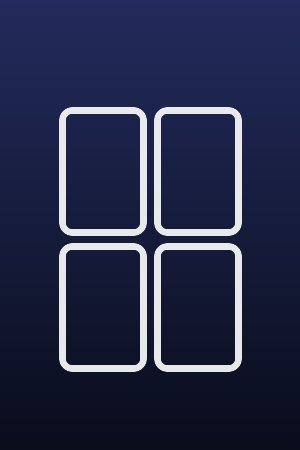
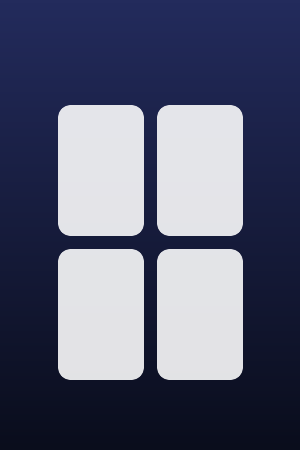
v0.3.3: author, circular badge, left sliver, search focus, row lineup
- NRO author is now Kirbosh (was still scamNscoot).
- Library badge is a white circle-dot instead of the heart; the See-all
  card art uses bolder filled tiles.
- Rows run edge-to-edge with 50px inner padding, so a scrolled row shows
  a sliver of the previous poster on the left, mirroring the right edge.
- Watch/Episodes focus outline now matches the pill shape.
- Search: results arriving in two batches recycled the focused cell onto
  a random poster; focus now returns to the first result.
- Row lineup reordered per request; added Surprise Me (random genre
  catalog each launch) and Anime Series (Kitsu addon).

Claude-Session: https://claude.ai/code/session_012V9FMNH1bYgQPuYGJ54k7A

Changed region(s): [[0.18, 0.2178, 0.81, 0.8711]]

diff --git a/app/src/activity/stremio_home.cpp b/app/src/activity/stremio_home.cpp
@@ -54,7 +54,7 @@ void styleRowHeader(brls::Label* h, const std::string& text) {
     h->setFontSize(27);
     h->setMarginTop(28);
     h->setMarginBottom(12);
-    h->setMarginLeft(6);
+    h->setMarginLeft(56);  // rows are edge-to-edge; keep titles at the old inset
     h->setTextColor(nvgRGB(240, 242, 248));  // soft white for clear hierarchy
 }
 
@@ -258,7 +258,11 @@ StremioHome::StremioHome() {
 
     this->boxHome = new brls::Box();
     this->boxHome->setAxis(brls::Axis::COLUMN);
-    this->boxHome->setPadding(16, 50, 32, 50);  // more breathing room at the edges
+    // No side padding: each row runs edge-to-edge and carries its own 50px
+    // inner padding instead, so a scrolled row shows a sliver of the previous
+    // poster on the left (like the next-poster sliver on the right) instead
+    // of clipping to nothing at the old padding boundary.
+    this->boxHome->setPadding(16, 0, 32, 0);
     scroll->setContentView(this->boxHome);
 
     this->addView(scroll);
@@ -288,27 +292,37 @@ StremioHome::StremioHome() {
     this->addRow("New Series", stremio::CINEMETA + "/catalog/series/year/genre=" + year + ".json");
     this->addRow("Top Rated Movies", stremio::CINEMETA + "/catalog/movie/imdbRating.json");
     this->addRow("Top Rated Series", stremio::CINEMETA + "/catalog/series/imdbRating.json");
+    // Surprise Me: a random genre catalog each launch.
+    {
+        static const char* genres[] = {"Action", "Adventure", "Animation", "Comedy", "Crime", "Drama", "Family",
+            "Fantasy", "History", "Horror", "Mystery", "Romance", "Sci-Fi", "Thriller", "War", "Western"};
+        std::srand((unsigned)now);
+        bool series = std::rand() & 1;
+        std::string genre = genres[std::rand() % 16];
+        this->addRow("Surprise Me", stremio::CINEMETA + std::string("/catalog/") + (series ? "series" : "movie") +
+                                        "/top/genre=" + genre + ".json");
+    }
     this->addRow("Animation Movies", stremio::CINEMETA + "/catalog/movie/top/genre=Animation.json");
     this->addRow("Animation Series", stremio::CINEMETA + "/catalog/series/top/genre=Animation.json");
     this->addRow("Action Movies", stremio::CINEMETA + "/catalog/movie/top/genre=Action.json");
+    this->addRow("Action Series", stremio::CINEMETA + "/catalog/series/top/genre=Action.json");
+    this->addRow("Sci-Fi Movies", stremio::CINEMETA + "/catalog/movie/top/genre=Sci-Fi.json");
+    this->addRow("Sci-Fi Series", stremio::CINEMETA + "/catalog/series/top/genre=Sci-Fi.json");
+    this->addRow("Thriller Movies", stremio::CINEMETA + "/catalog/movie/top/genre=Thriller.json");
+    this->addRow("Horror Movies", stremio::CINEMETA + "/catalog/movie/top/genre=Horror.json");
+    // Anime via the public Kitsu addon (Cinemeta has no separate anime genre).
+    this->addRow("Anime Series", "https://anime-kitsu.strem.fun/catalog/series/kitsu-anime-trending.json");
     this->addRow("Comedy Movies", stremio::CINEMETA + "/catalog/movie/top/genre=Comedy.json");
     this->addRow("Comedy Series", stremio::CINEMETA + "/catalog/series/top/genre=Comedy.json");
-    this->addRow("Sci-Fi Movies", stremio::CINEMETA + "/catalog/movie/top/genre=Sci-Fi.json");
+    this->addRow("War Movies", stremio::CINEMETA + "/catalog/movie/top/genre=War.json");
     this->addRow("Drama Series", stremio::CINEMETA + "/catalog/series/top/genre=Drama.json");
-    this->addRow("Horror Movies", stremio::CINEMETA + "/catalog/movie/top/genre=Horror.json");
-    this->addRow("Thriller Movies", stremio::CINEMETA + "/catalog/movie/top/genre=Thriller.json");
     this->addRow("Fantasy Movies", stremio::CINEMETA + "/catalog/movie/top/genre=Fantasy.json");
-    this->addRow("Action Series", stremio::CINEMETA + "/catalog/series/top/genre=Action.json");
-    this->addRow("Adventure Movies", stremio::CINEMETA + "/catalog/movie/top/genre=Adventure.json");
+    this->addRow("Fantasy Series", stremio::CINEMETA + "/catalog/series/top/genre=Fantasy.json");
     this->addRow("Crime Movies", stremio::CINEMETA + "/catalog/movie/top/genre=Crime.json");
     this->addRow("Crime Series", stremio::CINEMETA + "/catalog/series/top/genre=Crime.json");
     this->addRow("Mystery Movies", stremio::CINEMETA + "/catalog/movie/top/genre=Mystery.json");
     this->addRow("Mystery Series", stremio::CINEMETA + "/catalog/series/top/genre=Mystery.json");
     this->addRow("Romance Movies", stremio::CINEMETA + "/catalog/movie/top/genre=Romance.json");
-    this->addRow("Sci-Fi Series", stremio::CINEMETA + "/catalog/series/top/genre=Sci-Fi.json");
-    this->addRow("Fantasy Series", stremio::CINEMETA + "/catalog/series/top/genre=Fantasy.json");
-    this->addRow("Family Movies", stremio::CINEMETA + "/catalog/movie/top/genre=Family.json");
-    this->addRow("War Movies", stremio::CINEMETA + "/catalog/movie/top/genre=War.json");
     this->addRow("Western Movies", stremio::CINEMETA + "/catalog/movie/top/genre=Western.json");
     this->addRow("Documentary Movies", stremio::CINEMETA + "/catalog/movie/top/genre=Documentary.json");
     this->addRow("Documentary Series", stremio::CINEMETA + "/catalog/series/top/genre=Documentary.json");
@@ -369,6 +383,7 @@ void StremioHome::addRow(const std::string& title, const std::string& url) {
     auto* rec = new HRecyclerFrame();
     rec->setHeight(300);
     rec->estimatedRowWidth = 175;
+    rec->setPadding(0, 50, 0, 50);
     rec->registerCell("Cell", FavCardCell::create);
     this->boxHome->addView(rec);
     if (!this->firstRowRec) this->firstRowRec = rec;  // safe parking spot for focus
@@ -392,6 +407,7 @@ void StremioHome::addFavouritesRow() {
     this->favRec = new HRecyclerFrame();
     this->favRec->setHeight(300);
     this->favRec->estimatedRowWidth = 175;
+    this->favRec->setPadding(0, 50, 0, 50);
     this->favRec->registerCell("Cell", FavCardCell::create);
     this->boxHome->addView(this->favRec);
 
@@ -436,6 +452,7 @@ void StremioHome::addContinueRow() {
     this->continueRec = new HRecyclerFrame();
     this->continueRec->setHeight(300);
     this->continueRec->estimatedRowWidth = 175;
+    this->continueRec->setPadding(0, 50, 0, 50);
     this->continueRec->registerCell("Cell", FavCardCell::create);
     this->boxHome->addView(this->continueRec);
 

diff --git a/app/src/activity/stremio_search.cpp b/app/src/activity/stremio_search.cpp
@@ -178,6 +178,16 @@ void StremioSearch::rebuild() {
         return;
     }
     bool firstResults = dynamic_cast<SearchSource*>(this->recycler->getDataSource()) == nullptr;
+    // If focus is already inside the grid, the rebuild recycles the focused
+    // cell — the outline would silently follow the reused object onto a
+    // random poster. Re-give focus so it lands back on the first result.
+    bool focusInside = false;
+    for (brls::View* f = brls::Application::getCurrentFocus(); f != nullptr; f = f->getParent())
+        if (f == this->recycler) {
+            focusInside = true;
+            break;
+        }
     this->recycler->setDataSource(new SearchSource(mixed));
-    if (firstResults) brls::Application::giveFocus(this->recycler);
+    if (firstResults || focusInside)
+        brls::sync([this]() { brls::Application::giveFocus(this->recycler); });
 }

diff --git a/app/src/activity/stremio_detail.cpp b/app/src/activity/stremio_detail.cpp
@@ -105,8 +105,11 @@ StremioDetail::StremioDetail(const stremio::Meta& item) : item(item) {
     this->btnWatch->setCornerRadius(8);
     this->btnWatch->setBackgroundColor(stremio_theme::ACCENT);  // Stremio purple
     // Keep the purple visible while focused: the borealis highlight backdrop
-    // is painted over a view's own background and would cover it.
+    // is painted over a view's own background and would cover it. Match the
+    // focus outline to the pill's rounded shape.
     this->btnWatch->setHideHighlightBackground(true);
+    this->btnWatch->setHighlightCornerRadius(11);
+    this->btnWatch->setHighlightPadding(3);
     auto* btnLabel = new brls::Label();
     // ▶ is in the Switch system font; ☰ is not (renders as a crossed box).
     btnLabel->setText(item.type == "series" ? "▶  Episodes" : "▶  Watch");